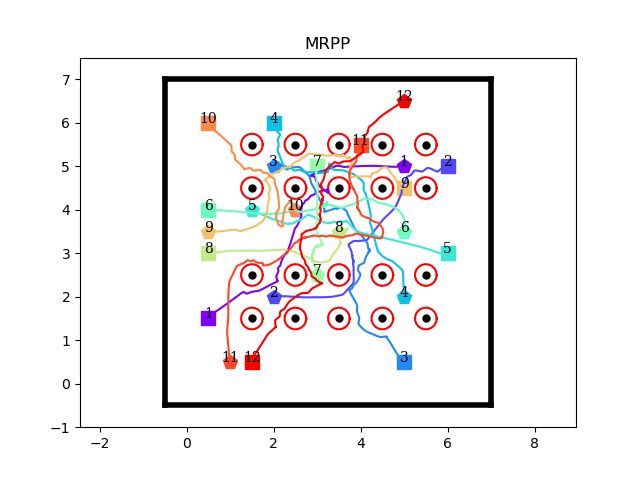
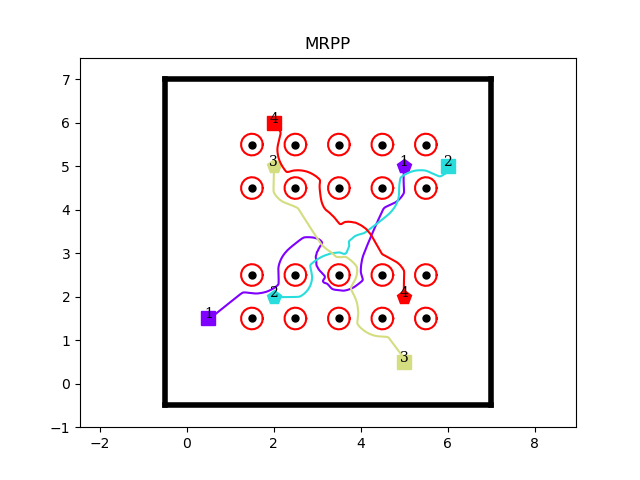
last test

diff --git a/scripts/apf_motion_1.py b/scripts/apf_motion_1.py
@@ -131,7 +131,7 @@ class ApfMotion(object):
         #     w = self.w_max * np.sign(theta)
         # else:
         theta_thresh = self.theta_thresh
-        v = self.v_max * max(0, (1- (abs(theta)/theta_thresh)))**1 #+ self.v_min/2
+        v = self.v_max * max(0, (1- (abs(theta)/theta_thresh)))**1 + self.v_min
         w = theta * self.w_coeff * 4 * (abs(theta)/theta_thresh)
         v = min(v, self.v_max)
         v = max(v, 0)

diff --git a/scripts/model_inputs.py b/scripts/model_inputs.py
@@ -9,7 +9,7 @@ class ModelInputs():
         elif map_id == 2:
             self.map2()
         elif map_id == -1:
-            self.map_now() #map_now()
+            self.map1() #map_now()
 
 
     def map0(self):
